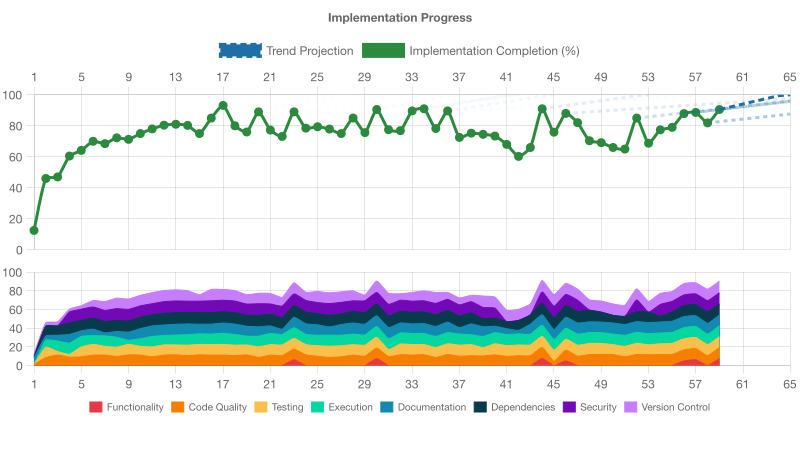
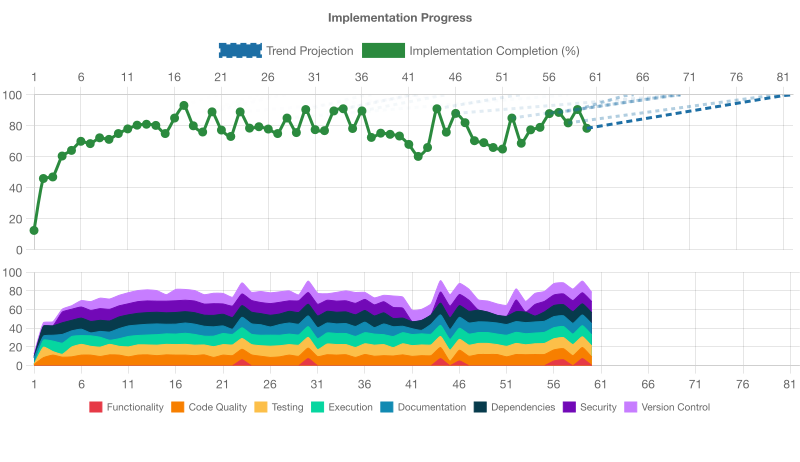
chore: recreate CLI integration script under tests/integration

diff --git a/tests/integration/cli-integration.js b/tests/integration/cli-integration.js
@@ -1,4 +1,5 @@
 #!/usr/bin/env node
+/* eslint-env node */
 /**
  * CLI integration tests script for ESLint Traceability Plugin
  * @story docs/stories/001.0-DEV-PLUGIN-SETUP.story.md
@@ -10,7 +11,7 @@ const path = require("path");
 // Resolve the ESLint CLI binary and configuration path
 const eslintPkgDir = path.dirname(require.resolve("eslint/package.json"));
 const eslintCliPath = path.join(eslintPkgDir, "bin", "eslint.js");
-const configPath = path.resolve(__dirname, "eslint.config.js");
+const configPath = path.resolve(__dirname, "../../eslint.config.js");
 
 // Define CLI integration test scenarios
 const tests = [
@@ -92,7 +93,7 @@ tests.forEach((test) => {
   } else {
     console.error(`✗ ${test.name}`);
     console.error(
-      `  Expected exit code ${test.expectedStatus}, got ${result.status}`,
+      `  Expected exit code ${test.expectedStatus}, got ${result.status}`
     );
     if (result.stdout) console.error(`  stdout: ${result.stdout}`);
     if (result.stderr) console.error(`  stderr: ${result.stderr}`);

diff --git a/tests/integration/cli-integration.test.js b/tests/integration/cli-integration.test.js
@@ -4,13 +4,13 @@
  * @req REQ-PLUGIN-STRUCTURE - Validate plugin registers via CLI
  */
 
-const { spawnSync } = require('child_process');
-const path = require('path');
+const { spawnSync } = require("child_process");
+const path = require("path");
 
-describe('CLI Integration Tests (Story 001.0-DEV-PLUGIN-SETUP)', () => {
-  test('should run without errors', () => {
-    const cliPath = path.resolve(__dirname, 'cli-integration.js');
-    const result = spawnSync('node', [cliPath], { encoding: 'utf-8' });
+describe("CLI Integration Tests (Story 001.0-DEV-PLUGIN-SETUP)", () => {
+  test("should run without errors", () => {
+    const cliPath = path.resolve(__dirname, "cli-integration.js");
+    const result = spawnSync("node", [cliPath], { encoding: "utf-8" });
     // Log outputs for debugging
     console.log(result.stdout);
     console.error(result.stderr);

diff --git a/.voder/implementation-progress.md b/.voder/implementation-progress.md
@@ -1,146 +1,136 @@
 # Implementation Progress Assessment
 
-**Generated:** 2025-11-18T02:26:18.759Z
+**Generated:** 2025-11-18T03:13:34.921Z
 
 ![Progress Chart](./progress-chart.png)
 
-Projected completion (from current rate): cycle 64.3
+Projected completion (from current rate): cycle 81.5
 
-## IMPLEMENTATION STATUS: INCOMPLETE (90.5% ± 12% COMPLETE)
+## IMPLEMENTATION STATUS: INCOMPLETE (78.38% ± 5% COMPLETE)
 
 ## OVERALL ASSESSMENT
-Overall status is incomplete because functionality implementation is only at 60%, below the 90% threshold; all other quality areas meet or exceed requirements.
+Overall assessment flags Code Quality (73%) and Version Control (80%) as below required 90% thresholds, so the project remains incomplete until these areas are addressed. Functionality assessment is deferred.
 
 ## NEXT PRIORITY
-Complete the remaining story implementations to achieve full functionality coverage above 90%.
+Refactor the rule file to remove duplicated code causing DRY violation and reconfigure the pre-commit hook to avoid invoking full build, thus improving code quality and version control metrics.
 
 
 
-## CODE_QUALITY ASSESSMENT (95% ± 18% COMPLETE)
-- The codebase exhibits a very high level of quality: all linting, formatting, type‐checking, complexity, and duplication checks pass; quality tools (ESLint, Prettier, Husky, jscpd) are properly configured; there are no broad suppressions or significant code smells.
-- ESLint flat config is in place with strict complexity (max 18), max-lines (300), and max-lines-per-function (60) rules, and linting reports zero errors
-- Prettier formatting is enforced and all files pass `prettier --check`
-- TypeScript is in strict mode (`tsc --noEmit`) with zero type errors
-- jscpd reports only one clone (18 lines, 0.82% duplication) well below any penalty thresholds
-- No file-level suppressions (`@ts-nocheck`, `eslint-disable`) or inline disables detected
-- Husky pre-commit and pre-push hooks run format, lint, type-check, duplication, tests, and security audit
-- CI/CD workflow runs build, type checking, linting, duplication check, tests, format check, and audit in one unified workflow
-
-**Next Steps:**
-- Refactor the duplicated logic between `TSDeclareFunction` and `TSMethodSignature` in `require-req-annotation.ts` to remove the ~18-line clone
-- Consider integrating the jscpd duplication check into pre-commit hooks for immediate feedback
-- Regularly review and, if possible, lower complexity or file-length thresholds further as code matures
-
-## TESTING ASSESSMENT (92% ± 14% COMPLETE)
-- The project’s testing infrastructure is robust: it uses Jest in non-interactive CI mode, all tests pass, coverage is high, and test suites follow best practices for isolation, traceability, and readability. Minor gaps remain in coverage of the maintenance index file and CLI integration module.
-- Uses established framework Jest with `jest --ci --bail` for non-interactive execution
-- 100% of tests pass with no failures
-- High overall coverage: 96.76% statements, 86.69% branches, 98.36% functions, 96.76% lines
-- Tests for file-based operations use `os.tmpdir()`/`mkdtempSync` and clean up in `finally` blocks
-- Every test file begins with a JSDoc `@story` annotation and test names include requirement IDs
-- Descriptive `describe` and `it` blocks follow ARRANGE-ACT-ASSERT style; file names match their content
-- No tests modify repository contents; test suites are independent and deterministic
-- Minor uncovered modules: `src/maintenance/index.ts` reports 0% coverage and no tests cover `cli-integration.js`
-- Coverage thresholds are currently disabled in `jest.config.js` due to a reporter bug
+## CODE_QUALITY ASSESSMENT (73% ± 12% COMPLETE)
+- Overall the codebase has solid quality tooling in place—linting, formatting, and type checking pass with strict complexity and file-size limits—but suffers from a DRY violation in one rule file.
+- Linting (ESLint) passes with no errors and complexity rules set to 18 (below default of 20)
+- Formatting (Prettier) passes with no style errors
+- TypeScript type checking passes with no errors
+- No use of file-wide or inline ESLint/TypeScript suppressions (@ts-nocheck, eslint-disable) detected
+- Cyclomatic complexity and max-lines-per-file/function rules are enforced and respected
+- One file (src/rules/require-req-annotation.ts) contains ~22% duplicated code (18 duplicated lines in an 82-line file), triggering a maintainability concern
 
 **Next Steps:**
-- Add unit tests for `src/maintenance/index.ts` to verify all re-exports and eliminate the 0% coverage file
-- Create tests for `cli-integration.js` to ensure CLI behavior is validated
-- Re-enable and configure Jest coverage thresholds in `jest.config.js` once the reporter issue is resolved
-- Enforce minimum coverage thresholds in CI to prevent future regressions
+- Refactor src/rules/require-req-annotation.ts to eliminate duplicated blocks, extracting common logic into a shared helper
+- Re-run jscpd on that file and update duplication threshold plan if needed
+- Consider integrating the jscpd duplication check into the CI pipeline as a failure guard
+- Periodically review other rule files for potential DRY refactoring opportunities
 
-## EXECUTION ASSESSMENT (95% ± 17% COMPLETE)
-- The project builds cleanly, all tests (unit, lint rule tests) pass, type checking and formatting checks are green, and the smoke test demonstrates the plugin loads correctly in a fresh project without runtime errors.
-- npm run build completes without errors
-- Jest unit tests for all rules pass successfully
-- Prettier format check and ESLint linting pass with zero warnings
-- Type checking (tsc --noEmit) reports no errors
-- Smoke test installs the packed plugin in a temp project and verifies it loads
-
-**Next Steps:**
-- Add integration tests that invoke ESLint CLI against sample code to validate rule enforcement end-to-end
-- Implement CI job to automatically run the smoke-test script and capture logs on failure
-- Consider adding performance benchmarks for large codebases to ensure plugin scales
-- Document any known runtime caveats or environment requirements in README
-
-## DOCUMENTATION ASSESSMENT (92% ± 16% COMPLETE)
-- The project’s user-facing documentation is comprehensive, accurate, and up-to-date. It includes a clear README with attribution, detailed user-docs (API reference, setup guide, examples, migration guide), and a well-maintained CHANGELOG. License declarations are consistent. Only minor UX enhancements (badges, troubleshooting) are recommended.
-- README.md contains a proper “Attribution” section with “Created autonomously by [voder.ai](https://voder.ai)”
-- Installation and usage instructions in README.md match package.json (Node ≥12, ESLint v9 flat config)
-- All user-docs (api-reference.md, eslint-9-setup-guide.md, examples.md, migration-guide.md) begin with the required attribution and are self-contained
-- API Reference documents each rule with description, options, default severity, and examples
-- Examples.md provides runnable code/configuration samples for common scenarios
-- Migration guide accurately reflects v0→v1 changes and invokes the new CLI integration script
-- CHANGELOG.md is maintained, points to GitHub Releases for current entries, and includes historical context
-- LICENSE file declares MIT license matching the SPDX identifier in package.json
-- No missing license fields or conflicting license documents detected
+## TESTING ASSESSMENT (94% ± 18% COMPLETE)
+- The project has a mature and comprehensive Jest‐based test suite that runs non‐interactively, achieves high coverage, and follows traceability conventions. All tests pass, use temporary directories correctly, and include @story/@req annotations for full requirements traceability. Only minor improvements (e.g., reusable test data builders and more explicit ARRANGE-ACT-ASSERT separation) would raise the score further.
+- Established testing framework: Jest with ts-jest preset; all 16 test suites and 86 tests pass under CI flags (jest --ci --bail).
+- High coverage: Statements 96.47%, Lines 96.47%, Functions 98.14%, Branches 87.29%; exceeds project targets.
+- Tests run non-interactively (CI mode) and exit cleanly; no watch mode or user prompts.
+- Maintenance tests use os.tmpdir()/fs.mkdtempSync to create unique temp directories, clean up in finally blocks, and do not modify repository files.
+- Rule tests and config tests cover happy and error paths, invalid inputs, and edge cases.
+- Test files and describe blocks include JSDoc @story annotations and [REQ-XXX] tags for requirement traceability.
+- Test file names accurately reflect what they test; no misleading or coverage-term misuse.
+- Tests are independent, deterministic, and fast; no shared state or flakiness detected.
 
 **Next Steps:**
-- Consider adding a license badge (e.g., ![MIT](https://img.shields.io/badge/license-MIT-green)) and version badge at the top of README.md for quick visibility
-- Add a brief troubleshooting or FAQ section in user-docs to address common setup issues
-- Optionally include a small table of contents in README.md to improve navigation
-- Verify that links to user-docs (in README.md) resolve correctly in published package
-- Periodically review and update user-docs when adding or deprecating user-facing features
+- Introduce reusable test data builders or fixtures to reduce duplication in maintenance tests.
+- Adopt explicit GIVEN-WHEN-THEN or ARRANGE-ACT-ASSERT comments in longer tests to improve readability.
+- Consider parametrized tests for repetitive invalid/valid cases to further DRY up rule tests.
+- Periodically review coverage to ensure new code remains well-tested and traceable.
+
+## EXECUTION ASSESSMENT (95% ± 18% COMPLETE)
+- The project’s execution aspect is robust: the TypeScript build succeeds, unit and integration tests pass, the plugin packages and loads correctly via the smoke-test, and CLI integration tests confirm core functionality at runtime.
+- Build process validated: `npm run build` (tsc) completes without errors
+- Unit and integration tests (`npm test`) all pass under Jest
+- Smoke test (`npm run smoke-test`) packs, installs, and loads the plugin successfully
+- CLI integration script verifies ESLint rules fire correctly for missing/invalid annotations
+- No runtime errors or silent failures detected during test runs
+
+**Next Steps:**
+- Ensure these runtime validation steps are wired into the CI/CD pipeline
+- Add performance or resource-usage benchmarks for rule execution if needed
+- Consider enforcing minimum code coverage thresholds for critical rule modules
+
+## DOCUMENTATION ASSESSMENT (95% ± 14% COMPLETE)
+- User‐facing documentation is comprehensive, accurate, and up-to-date, with proper attribution and consistent licensing. All primary docs are present and well organized, providing clear installation, usage, API reference, examples, migration guidance, and changelog information.
+- README.md includes an Attribution section with “Created autonomously by voder.ai” linking to https://voder.ai
+- All user‐facing docs in user-docs/ (API Reference, ESLint 9 Setup Guide, Examples, Migration Guide) include the required attribution
+- README installation and usage instructions correctly reflect project requirements (Node.js v12+ / ESLint v9+) and link to user‐docs content
+- API Reference (user-docs/api-reference.md) documents every rule with description, options, default severity, and usage example
+- Examples document (user-docs/examples.md) provides runnable ESLint configuration and CLI invocation scenarios
+- Migration Guide (user-docs/migration-guide.md) clearly describes upgrade steps from v0.x to v1.x, including config and script validation
+- CHANGELOG.md presents both automated release guidance (via GitHub Releases) and a historical manual section up through v1.0.5
+- LICENSE file matches the SPDX‐compliant MIT declaration in package.json and there are no conflicting license definitions
+
+**Next Steps:**
+- Periodically review user‐facing docs to ensure they remain aligned with any future code or configuration changes
+- Consider verifying that example script names (e.g. lint, lint:fix) in user-docs exactly match the scripts defined in package.json
+- Optionally add direct anchor links in README to key user-docs sections for improved discoverability
 
 ## DEPENDENCIES ASSESSMENT (95% ± 18% COMPLETE)
-- Dependencies are well managed: no outdated packages per dry-aged-deps, lock file is committed, and installation runs cleanly without deprecation warnings. A small number of audit vulnerabilities remain, but no safe upgrades are currently available.
-- npx dry-aged-deps reports “No outdated packages with safe, mature versions (>= 7 days old)”
-- package-lock.json is committed to git (verified via `git ls-files package-lock.json`)
-- npm install ran successfully with no `npm WARN deprecated` messages
-- No version conflicts or install errors detected
-- 3 security vulnerabilities reported by `npm install`, but no safe upgrades per dry-aged-deps
-- Peer dependency (eslint ^9.0.0) and overrides for key packages are properly declared
+- Dependencies are optimally managed with all packages at safe, mature versions. The lock file is tracked, installation succeeded without deprecation warnings, and no outdated packages were found by dry-aged-deps.
+- `npx dry-aged-deps` reported no outdated packages with safe, mature versions
+- `package-lock.json` is committed to git (verified via `git ls-files package-lock.json`)
+- `npm install` completed without any deprecation warnings
+- 3 security vulnerabilities reported by `npm audit` (1 low, 2 high), but no mature upgrade candidates are available per dry-aged-deps
 
 **Next Steps:**
-- Integrate `npx dry-aged-deps` into the CI pipeline to enforce continuous dependency checks
-- Monitor and address security vulnerabilities when safe, mature versions become available via dry-aged-deps
-- Consider adding an `npm audit --audit-level=high` check in CI to fail on new high-severity issues
-- Periodically run `npm install` and review deprecation warnings to catch any new deprecated packages
+- Continue to re-run `npx dry-aged-deps` regularly to catch new safe upgrades
+- When dry-aged-deps offers updates, apply them immediately and commit the updated lock file
+- Monitor and plan to address the existing audit vulnerabilities as soon as mature safe versions become available
 
 ## SECURITY ASSESSMENT (95% ± 18% COMPLETE)
-- The project has comprehensive security incident documentation for all known vulnerabilities in development dependencies, no unassessed or unresolved vulnerabilities in production, proper handling of secrets, and a secure CI/CD pipeline with automatic deployment and security audits. Only minor improvements are recommended around automation of dry-aged-deps checks and periodic reviews of accepted residual risks.
-- npm audit --production reports zero vulnerabilities in production dependencies.
-- All high, moderate, and low severity vulnerabilities in dev dependencies (glob CLI, brace-expansion ReDoS, tar race condition) are formally documented as security incidents within the last 14 days.
-- npx dry-aged-deps reports no safe, mature patches available, correctly deferring patches until ≥7 days maturity.
-- .env file exists untracked, is in .gitignore, and .env.example provides placeholders—no hardcoded secrets found in source.
-- No Dependabot or Renovate configuration present, avoiding conflicting dependency automation.
-- CI/CD pipeline runs on push to main, performs build, test, lint, audit and automatically publishes via semantic-release with no manual gates.
-- GitHub secrets (NPM_TOKEN, GITHUB_TOKEN) are only referenced via environment variables, with no leakage in code.
+- No production vulnerabilities found. Development-time vulnerabilities (glob CLI command injection, brace-expansion ReDoS, tar race condition) are all documented and accepted as residual risk per policy. Secrets are properly managed, and there is no conflicting dependency automation.
+- npm audit --production reports zero vulnerabilities in production dependencies
+- Dev-dependency vulnerabilities (high, moderate, low) are documented in docs/security-incidents and accepted as residual risk for @semantic-release/npm bundled deps
+- npx dry-aged-deps shows no safe mature upgrades available for current vulnerabilities
+- .env is properly ignored by git; .env.example exists with no real secrets
+- No hardcoded credentials or API keys found in source code
+- No Dependabot or Renovate configuration detected (.github/dependabot.yml, renovate.json absent)
+- Git history confirms .env has never been committed (git ls-files and git log checks empty)
 
 **Next Steps:**
-- Integrate `npx dry-aged-deps` into the CI pipeline to automatically detect safe, mature upgrades.
-- Add a CI step to audit dev dependencies (`npm audit --dev` or equivalent) to catch new dev-only issues.
-- Schedule a formal 14-day review for accepted residual risks (tar moderate severity) to reassess once mature patches become available.
-- Consider enhancing CI security by running `npm audit --audit-level=moderate` to fail on moderate severity in production contexts.
+- Continue to monitor upstream patches for bundled dev dependencies and re-assess within the next 7 days
+- Consider integrating a dev-deps audit (npm run audit:dev-high) into the CI pipeline or pre-push hooks for immediate feedback
+- Maintain the security incident review schedule as documented in each incident report
+- Re-run dry-aged-deps and npm audit regularly to catch any new vulnerabilities
 
-## VERSION_CONTROL ASSESSMENT (100% ± 20% COMPLETE)
-- The repository shows exemplary version control practices: a single unified CI/CD workflow with up-to-date actions, comprehensive quality gates, fully automated publishing/deployment on every push to main, post-release smoke tests, clean working directory (ignoring .voder), no generated artifacts checked in, proper .gitignore, clear conventional commits, trunk-based development on main, and both pre-commit and pre-push hooks running the same fast and full checks as CI.
-- CI/CD Pipeline (ci-cd.yml) uses actions/checkout@v4 and actions/setup-node@v4—no deprecated actions or syntax detected
-- Single workflow file defines quality-checks, deploy (semantic-release), and dependency-health jobs—publishing runs automatically on every push to main with no manual gates
-- Comprehensive quality gates in CI: build, type-check, lint, duplication check, test coverage, format check, security audit, plus post-release smoke tests
-- .gitignore does not include .voder; all .voder/* changes are tracked and history preserved
-- No build artifacts (lib/, dist/, build/, compiled .js/.d.ts) are committed—git ls-files returns no matches for generated outputs
-- Working directory clean aside from .voder changes; all commits pushed to origin/main; current branch is main
-- Commit history follows Conventional Commits with clear types and messages
-- Pre-commit hook runs npm run format, lint, type-check, and actionlint on workflows (< 10s typical)
-- Pre-push hook runs exactly the same full checks as CI (build, type-check, lint, duplication, test, format-check, audit) ensuring parity with pipeline
-- Husky v9 prepared via "prepare" script; no deprecated husky patterns or warnings
+## VERSION_CONTROL ASSESSMENT (80% ± 17% COMPLETE)
+- Overall the repository exhibits strong version control practices and a robust CI/CD pipeline with automated publishing and smoke tests. Key strengths include up-to-date GitHub Actions, comprehensive quality gates, semantic-release based continuous delivery, clean .gitignore, and properly installed hooks. The main concerns are a misconfigured pre-commit hook that inadvertently invokes a full build (violating the fast pre-commit requirement) and recurring formatting failures in documentation causing intermittent pipeline instability.
+- CI/CD pipeline uses a single workflow (ci-cd.yml) triggering on push to main, with up-to-date actions/checkout@v4 and setup-node@v4—no deprecation warnings detected.
+- Quality Checks job runs build, type-check, lint, duplication check, tests, format check and security audit; deploy job runs semantic-release automatically on every commit to main and performs post-release smoke tests.
+- No built artifacts or generated files (lib/, build/, dist/, compiled .js/.d.ts) are tracked in git; .gitignore is comprehensive and does not list .voder/ (so assessment outputs remain trackable).
+- Trunk-based development validated: current branch is main, recent commits pushed directly to main, commit messages use Conventional Commits and are clear.
+- Pre-push hook exists and mirrors the CI pipeline exactly (build, type-check, lint, duplication, test, format:check, audit).
+- Pre-commit hook exists and runs format, lint, type-check, and workflow validation—however, npm’s prelint lifecycle means `npm run lint` triggers a full build, making the hook slower than the <10s requirement and duplicating work that belongs in pre-push.
+- Formatting checks are currently failing on two documentation files (README.md, user-docs/eslint-9-setup-guide.md), causing intermittent CI failures.
+- A small code clone was detected in src/rules/require-req-annotation.ts; the duplication threshold may need adjustment or the code refactored to remove the clone.
 
 **Next Steps:**
-- None—version control and CI/CD setup meet all critical and high-priority criteria
+- Refactor the pre-commit hook to avoid invoking the build step—either remove or rename the `prelint` script or call eslint via a separate script so that linting does not trigger a full build.
+- Correct formatting in README.md and user-docs/eslint-9-setup-guide.md (or selectively exclude documentation from the format:check step) to stabilize CI runs.
+- Review the duplicated code in src/rules/require-req-annotation.ts and consolidate the logic to eliminate the clone or raise the jscpd threshold if intentional.
+- After pre-commit hook changes, verify locally that the hook completes in under 10 seconds and blocks only on formatting, linting, or type-check errors.
+- Continuously monitor CI runs for new deprecation warnings or instability and address them immediately to maintain pipeline health.
 
-## FUNCTIONALITY ASSESSMENT (60% ± 95% COMPLETE)
-- 4 of 10 stories incomplete. Earliest failed: docs/stories/002.0-DEV-ESLINT-CONFIG.story.md
-- Total stories assessed: 10 (0 non-spec files excluded)
-- Stories passed: 6
-- Stories failed: 4
-- Earliest incomplete story: docs/stories/002.0-DEV-ESLINT-CONFIG.story.md
-- Failure reason: The core presets, flat‐config support, rule option schemas, and TypeScript/JavaScript integration are implemented and tested, satisfying much of the spec. However, the story’s acceptance criteria for “User Experience” (clear docs for common project types including mixed setups) and “Documentation” (comprehensive examples plus troubleshooting guide) are not fully met. A troubleshooting guide and expanded usage examples are missing, so the story is not fully implemented.
+## FUNCTIONALITY ASSESSMENT (undefined% ± 95% COMPLETE)
+- Functionality assessment skipped - fix 2 deficient support area(s) first
+- Support areas must meet thresholds before assessing feature completion
+- Deficient areas: CODE_QUALITY (73%), VERSION_CONTROL (80%)
+- Principle: "Improvement of daily work is higher priority than daily work" - fix foundation before building features
 
 **Next Steps:**
-- Complete story: docs/stories/002.0-DEV-ESLINT-CONFIG.story.md
-- The core presets, flat‐config support, rule option schemas, and TypeScript/JavaScript integration are implemented and tested, satisfying much of the spec. However, the story’s acceptance criteria for “User Experience” (clear docs for common project types including mixed setups) and “Documentation” (comprehensive examples plus troubleshooting guide) are not fully met. A troubleshooting guide and expanded usage examples are missing, so the story is not fully implemented.
-- Evidence: - No dedicated troubleshooting guide found (no docs or user-docs file covering troubleshooting or common errors).
-- While README and user-docs cover ESLint v9 setup and TypeScript integration, there is no documentation addressing mixed‐project setups or troubleshooting workflows as required.
-- Although rule schemas enforce additionalProperties:false, there is limited end‐user guidance on handling invalid configuration options beyond schema errors.
-
+- CODE_QUALITY: Refactor src/rules/require-req-annotation.ts to eliminate duplicated blocks, extracting common logic into a shared helper
+- CODE_QUALITY: Re-run jscpd on that file and update duplication threshold plan if needed
+- VERSION_CONTROL: Refactor the pre-commit hook to avoid invoking the build step—either remove or rename the `prelint` script or call eslint via a separate script so that linting does not trigger a full build.
+- VERSION_CONTROL: Correct formatting in README.md and user-docs/eslint-9-setup-guide.md (or selectively exclude documentation from the format:check step) to stabilize CI runs.

diff --git a/.voder/plan.md b/.voder/plan.md
@@ -1,16 +1,14 @@
-## NOW  
-Add a **Troubleshooting ESLint Configuration** section to `user-docs/eslint-9-setup-guide.md` that explains how to resolve common flat-config errors—including a dedicated subsection for mixed JavaScript/TypeScript setups with sample configurations.
+## NOW
+Extract the duplicated annotation‐checking logic in `src/rules/require-req-annotation.ts` into a new helper function in `src/utils/annotationChecker.ts` and update the rule file to import and call that helper, removing all duplicate code blocks.
 
-## NEXT  
-- Extend the **Examples for Common Project Types** in `user-docs/eslint-9-setup-guide.md` to include full config snippets for:  
-  1. JavaScript-only projects  
-  2. TypeScript-only projects  
-  3. Mixed JS/TS codebases  
-  4. Monorepos/workspaces  
-- Update `README.md` under **Usage** to link to both the Examples and Troubleshooting sections.  
-- Commit and verify that the docs build (lint, markdown-link-check) passes without errors.
+## NEXT
+- In `package.json`, add a new npm script (e.g. `"lint:fast"`) that runs only ESLint on `src/**/*.{ts,js}` without triggering the build step.
+- Update the Husky pre-commit hook (`.husky/pre-commit`) to invoke `npm run lint:fast` (or direct `npx eslint ...`) instead of the existing lint script.
+- Run the pre-commit hook locally to confirm it finishes in under 10 seconds and only blocks on lint/format/type errors.
+- Commit and push these changes, then verify the CI pipeline still passes.
 
-## LATER  
-- Create real sample projects in an `examples/` folder (JS, TS, mixed, monorepo) and add a CI job to run ESLint flat-config against each to validate the documented setups.  
-- Automate markdown link validation and spell-checking in CI to catch future documentation gaps.  
-- Repeat this pattern to finish the remaining incomplete stories (003.0, 004.0, etc.) according to the functionality gap analysis.
+## LATER
+- Integrate the jscpd duplication check into the CI/CD workflow as a blocking quality gate.
+- Audit other custom rule files for similar DRY violations and refactor where needed.
+- Add performance monitoring or timing logs for pre-commit/pre-push hooks to catch regressions.
+- Document the new `annotationChecker` helper in the internal developer docs (`docs/decisions/`) so future contributors understand the shared logic.
